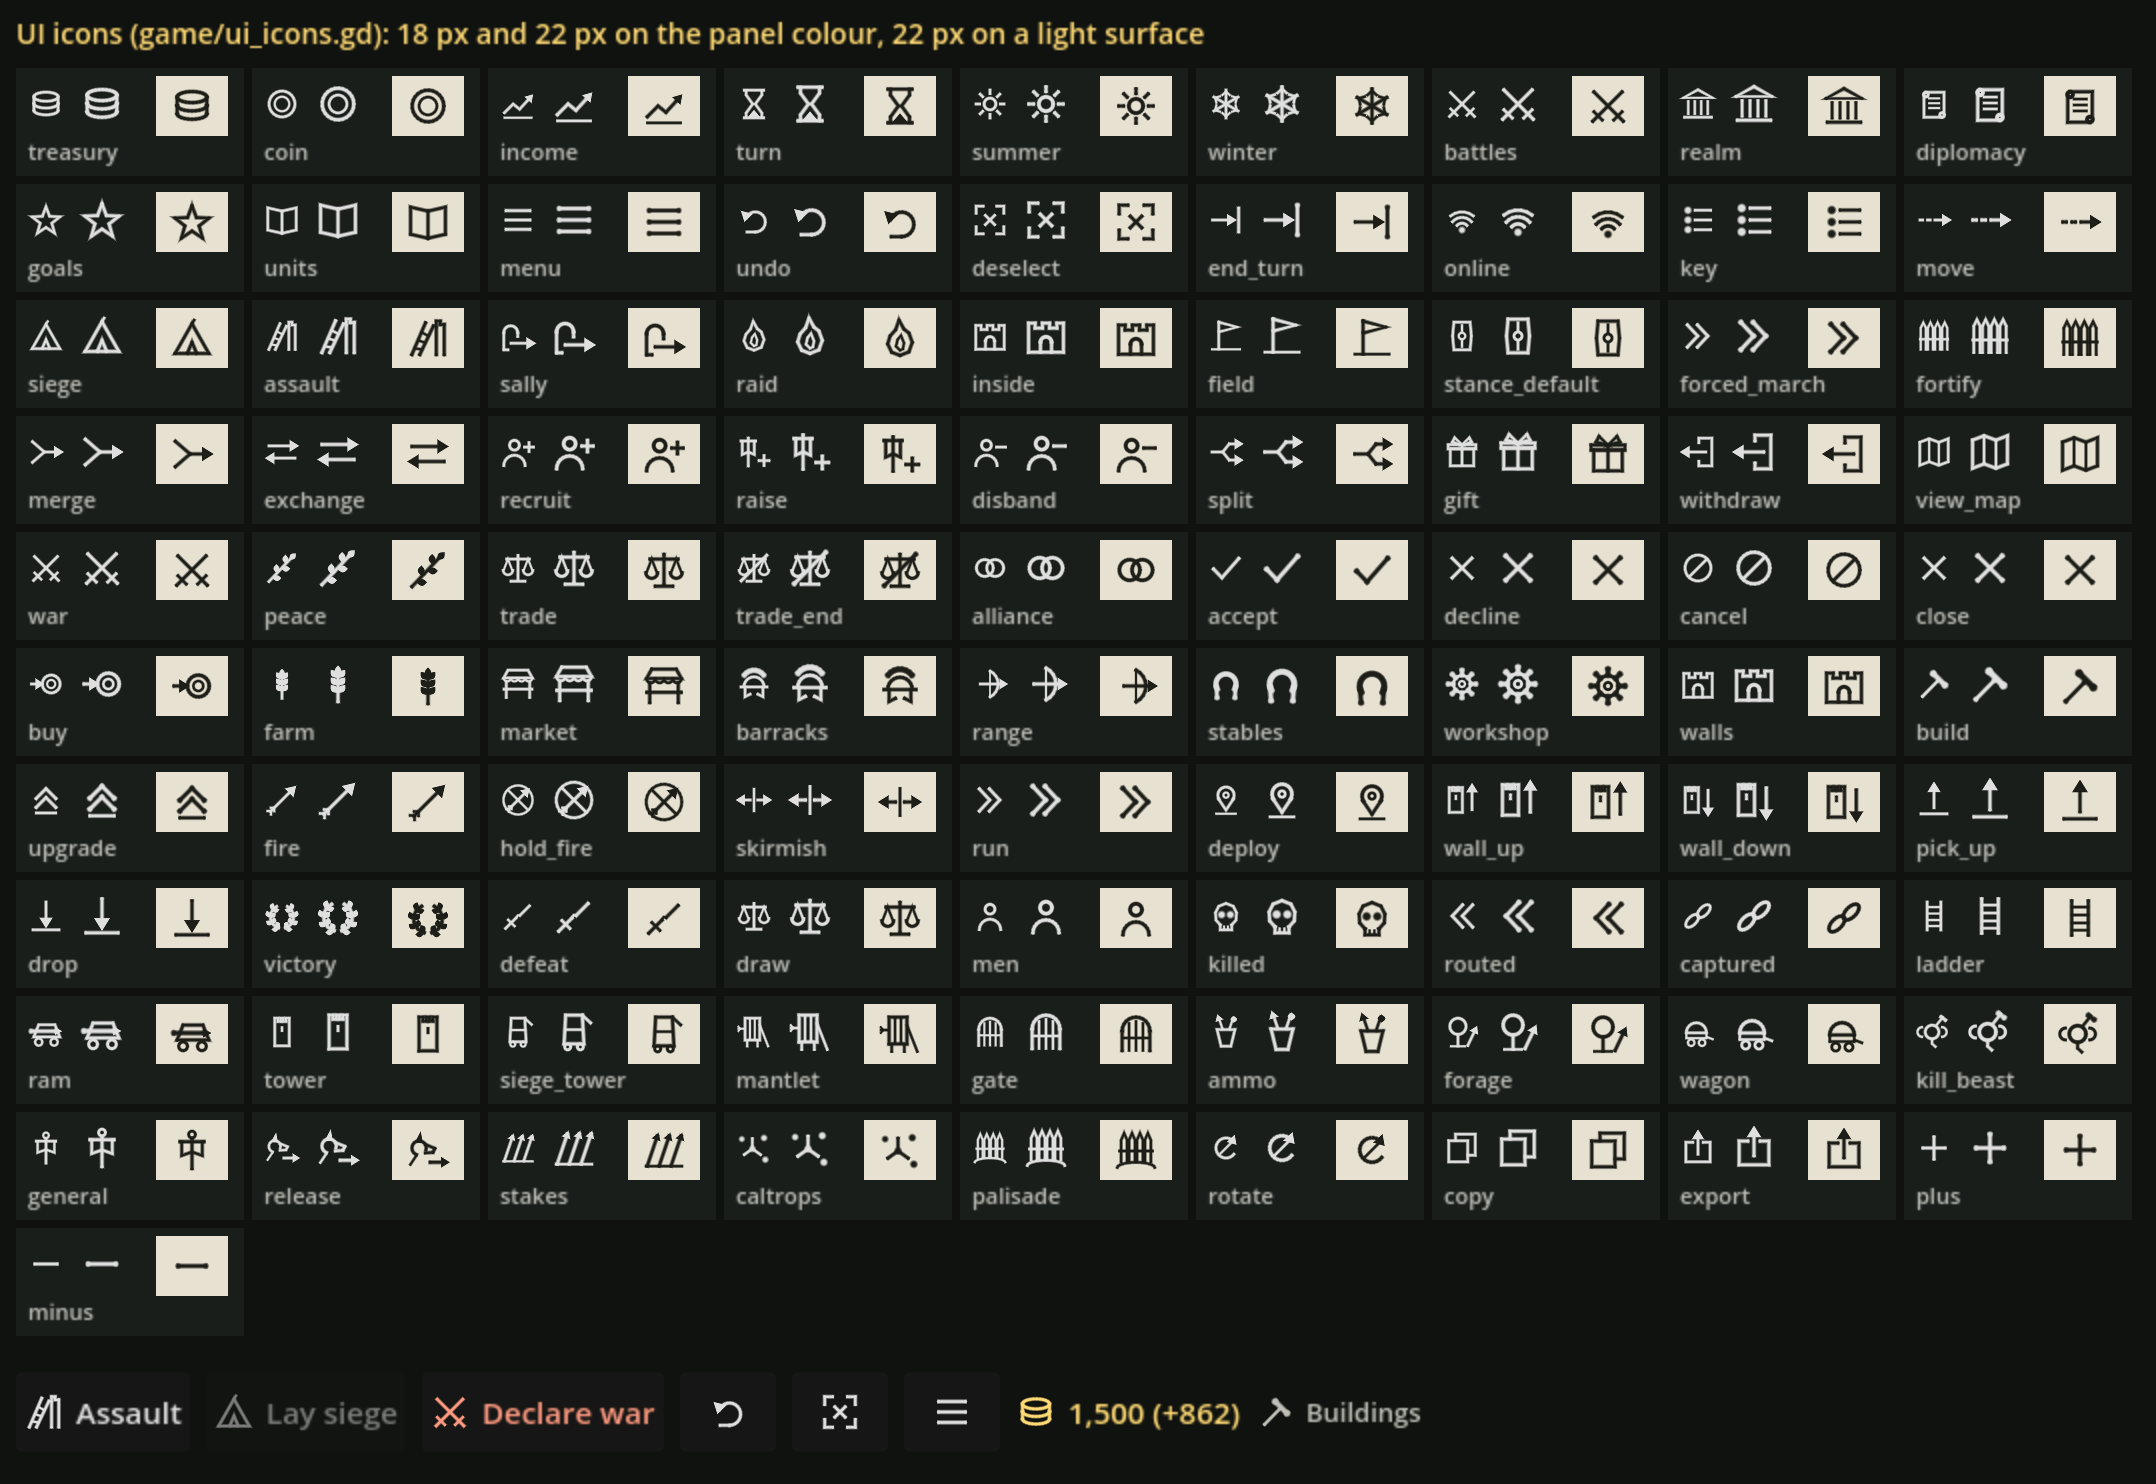
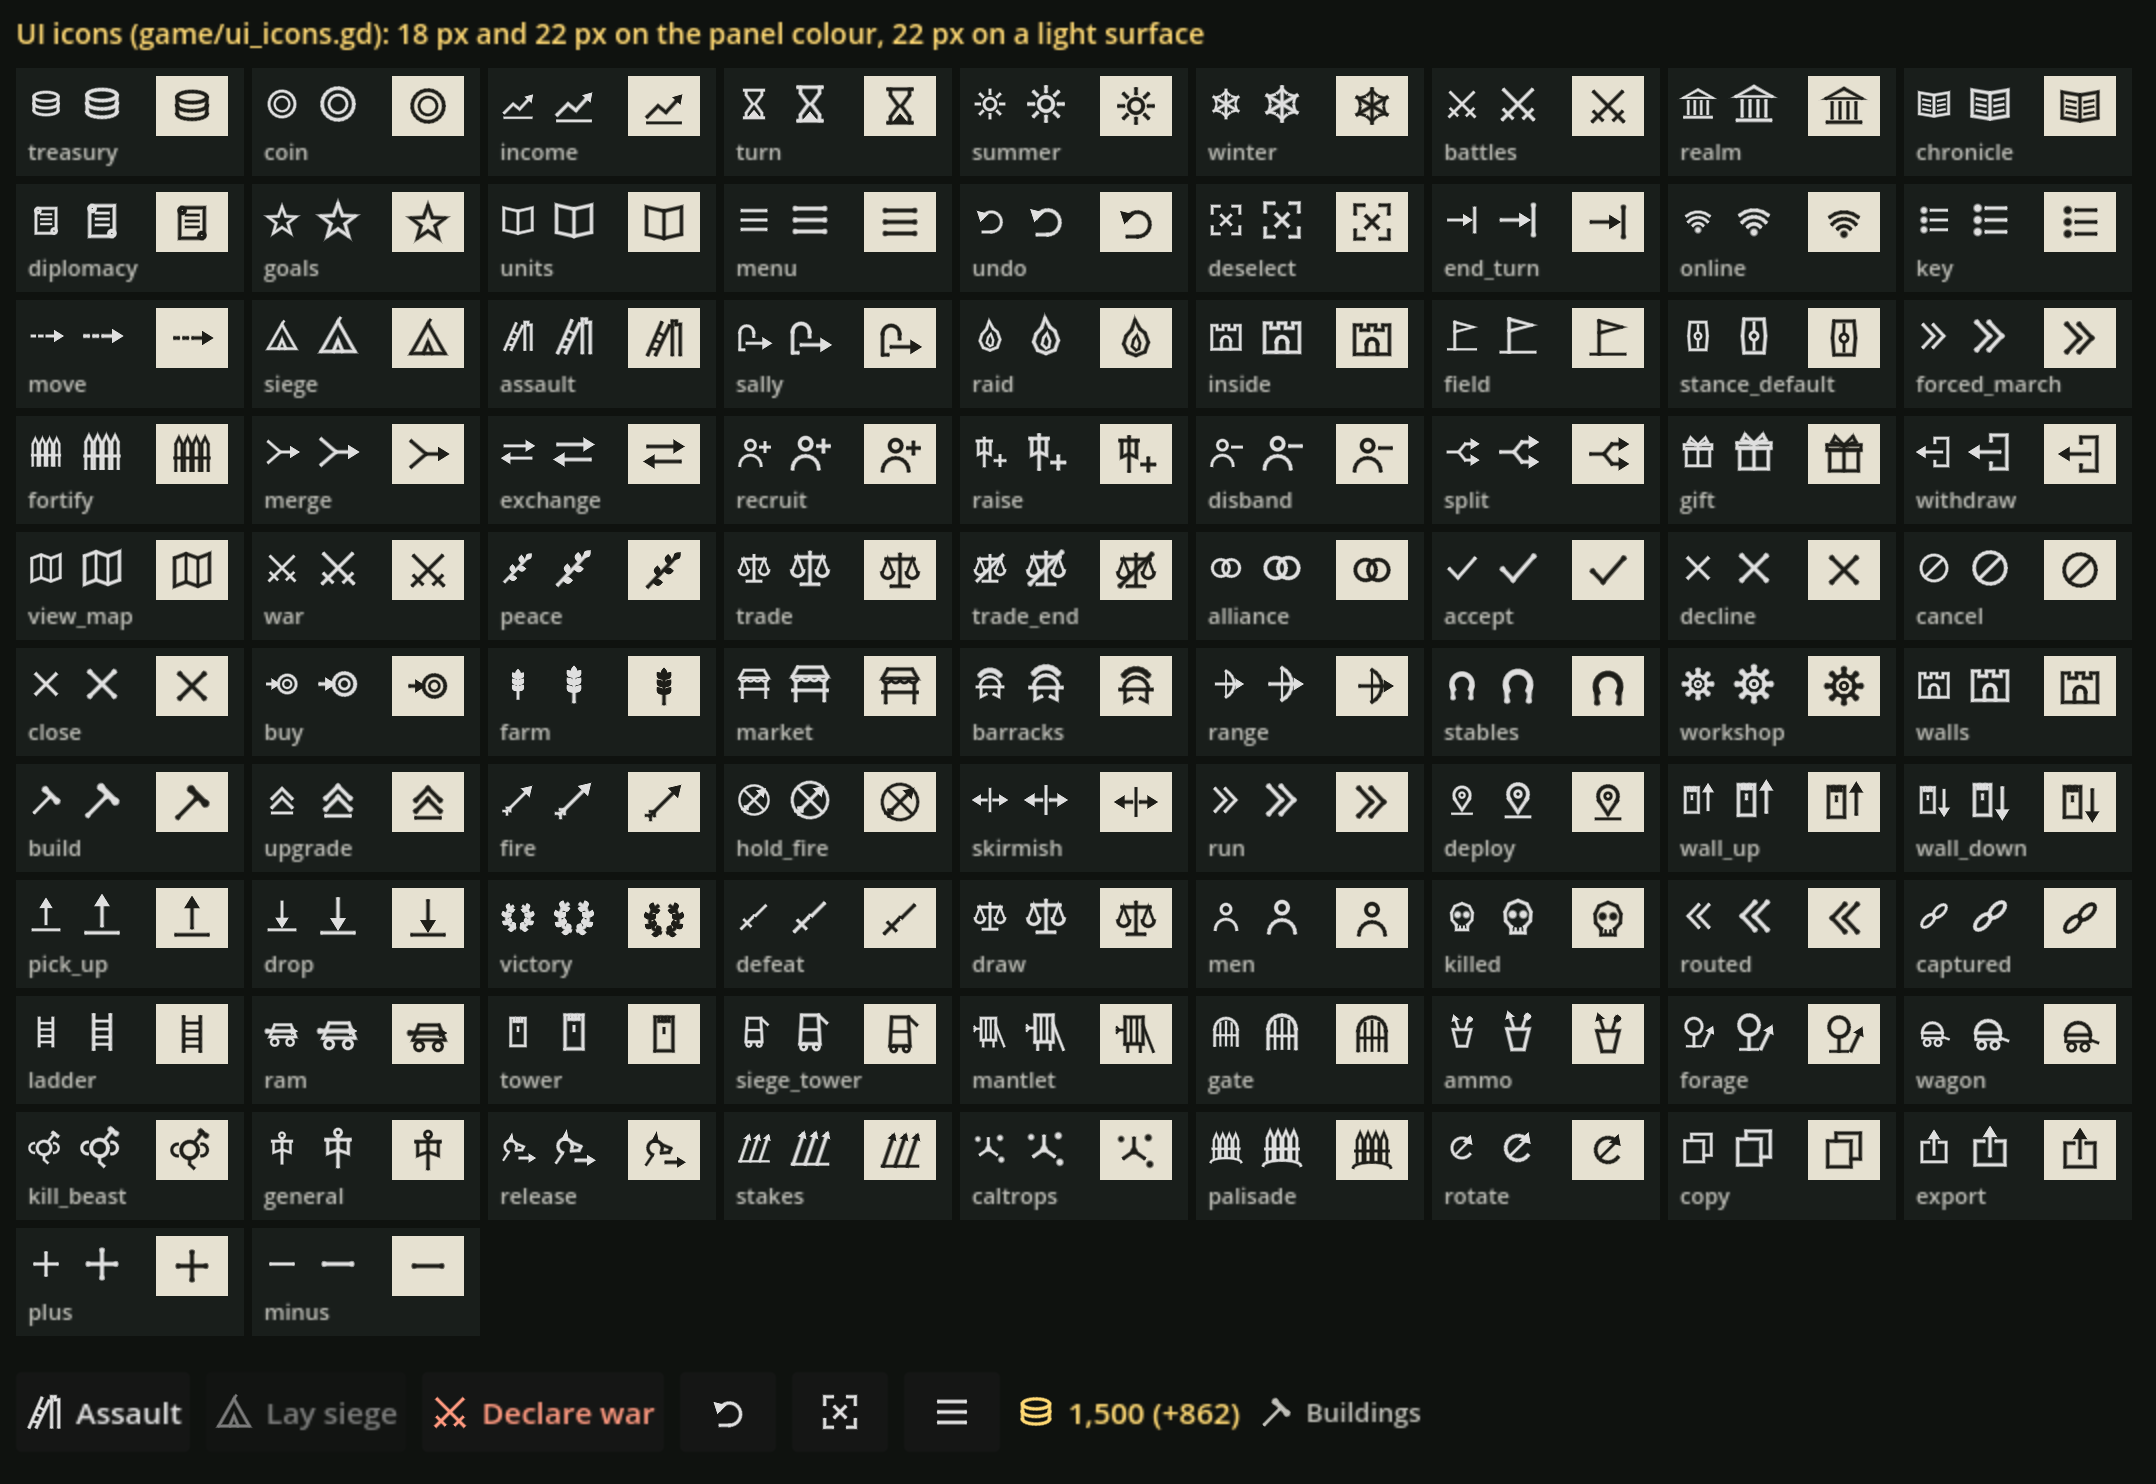
Campaign: turn chronicle and the diplomacy stance
Chronicle: CRules.event also appends world-level rows (battle,
captured, destroyed, eliminated, war, peace, trade, trade_end, siege,
siege_lifted, starving, victory, defeat) to an optional state key
"chronicle", kept 60 turns, absent in old saves (VERSION 6); hashed as
events are, so the campaign_sim hashes move to f519f0cd 92128fe3
1ae512e4 9f5d6dfb fb5276ad 6d1bee77 (rng unchanged). A Chronicle
dialog (Realm -> Chronicle, icon "chronicle", --dialog=chronicle): one
section per turn, newest first, the world's rows then "Yours"; the
start-of-turn summary uses the same box and keeps its warnings.
Diplomacy stance: CAI.why() is the single rule (accepts = why == "");
the Diplomacy screen shows "Would accept" / "Would refuse: reason"
under each AI row before a proposal is sent (trade: at peace 2+ turns
and the asker at least 40 % of its strength; peace: at war 3+ turns
and weaker, or 18 turns, or down to 2 regions), nothing for humans.
campaign_test: _chronicle checks, the two pinned digests re-pinned
(63ea40c5 -> 6e1095cd, 1379013c -> 08e7391a). Icon gallery regenerated.

Verify: check_scripts clean; determinism, lockstep, custom_battle,
campaign, battle_screen PASS.

Claude-Session: https://claude.ai/code/session_0176xvpqGUFnMoetP3ki2iqX

diff --git a/docs/STATUS.md b/docs/STATUS.md
@@ -61,6 +61,7 @@ anti-cheat and original art only if it proves fun.
 | Siege pass, paused (2026-10-09; owner's decision: the siege tuning waits until the settlement movement and ladder bugs are fixed, a separate build, since tuning levers around men who jam at walls is premature). **Kept (harness only, no rule or number changed):** `tests/matchups.gd --only=fair-sieges` row 2 is the **full kit** of a three-turn campaign siege (3 ladder sets, a ram, 4 mantlets as `CBattle.siege_equipment` gives, a tower at walls 2-3, a unit of scorpions; `Scenarios.fair_siege` key `extra` adds attacker units with the defenders' field army reduced by the same strength); `--fair-variants=fort0,fort1` (a side in its fortified camp); 8 missile flank / rear yardsticks in `--only=yard` (archers / slingers 80 at 100 m: pikes 120 flank 99.7 / 94.0 %, rear 99.1 / 89.7 %; heavy 120 flank 77.6 / 69.0 %, rear 72.4 / 49.2 %; front 5.3 / 0.2 %: a stone never outdoes an arrow). **Shelved** (a patch in the session scratchpad, `rebal/siege/SHELVED.patch` + README; to resume after the movement fix): `TOWN_PLACE_LEAD` 10 m, `WALL_COVER` 25 / 25 / 40, `TOWERS_MAX` 3 / 4, `GATE_HP_PCT` 100 / 115, `GATE_FIRE_CHIP` 15 / 8 / 6, Skilled `SK_STORM_STAGGER` 0, the settlement AI taking up crewless engines, the formula's walls term `WALLS_PCT` by walls and kit with `FORTIFY_DEF_PCT` 123, Skilled `SHELTER_PCT` 70. **Findings:** bisect (fair sieges walls 1, ladders + ram, over the day's commits): ring / polis 40 / 50 % until the melee commit 15ef028 ("ranks hold together"), 0 / 30 % from it on; cause: with the field's 1.5 m `PLACE_LEAD` a column coming out of a gateway fights only with the men at its places (they stand in the walls) against the stack's whole frontage (no cap in towns: 70-100 %). Skilled attackers lose more than Average because their staggered storm feeds units one by one into the stack (ablation: stagger off ring / polis walls 1 0 / 20 -> 70 / 40 %). At walls 2-3 the attackers' archers kill almost no wall men (a probe: 2,700 arrows, about 400 landing near a target, mostly at tower crews). Equal-force sieges, attacker wins, both Average, 10 seeds (ladders + ram / artillery only / full kit), HEAD -> shelved state:<br>ring walls 1 0 / 0 / 0 -> 40 / 10 / 40 %; walls 2 10 / 0 / 0 -> 10 / 10 / 30 %; walls 3 0 / 0 / 0 -> 10 / 0 / 10 %;<br>polis walls 1 30 / 20 / 40 -> 60 / 20 / 50 %; walls 2 0 / 0 / 0 -> 0 / 40 / 10 %; walls 3 0 / 0 / 10 -> 10 / 10 / 10 %; the attackers withdraw in most losses, draws 0-20 %, 8-11 min mean.<br>Full kit walls 1 / 2: Average vs Easy defender ring 0 / 0 -> 40 / 0 %, polis 10 / 10 -> 10 (50 % draws) / 10 %; Skilled vs Average defender ring 0 / 0 -> 70 / 0 %, polis 20 / 0 -> 40 / 0 %. Fortified camp (HEAD): an Average army in its camp beat an equal one 13 of 20. Calibration (`campaign_battles --only=calib --n=60`), HEAD -> shelved state: formula favourite won 49 -> 54 of 60 (82 -> 90 %); attacker wins sim 30 / formula 34 -> sim 30 / formula 29 %. campaign_sim 6x60 of the shelved state 704eeec1 96b2efba 3fa67102 3e463360 4263d23c e202ac8c (sieges started / assaulted / won / lifted 84 / 69 / 48 / 32 -> 77 / 61 / 41 / 31). Ladder reports (one ladder at a time, the last men never climbing, the unit refusing orders): not diagnosed here (moved to the movement build; a scratch probe found throughput as designed with no defenders and piecemeal deaths with 60 defenders above) | Harness kept 2026-10-09, not committed; check_scripts clean, determinism full PASS (sim untouched, goldens = HEAD) |
 | Units flow into the space (2026-10-09; settlement movement, built after the siege pass paused; maps with buildings or walls only, field battles hash as before): **measurement** a hashed no-progress counter `u_stuck` (+ `u_srx`, `u_sry`, `u_sprog`; diagnostics `stat_stuck_max` / `stat_stuck_u` / `stat_stuck_t`), probe `determinism_test --only=flow` (ladders at walls 1-2 with and without 60 defenders above, four units through a gate, a street fight, a unit across a house's corner), stuck columns in `matchups --only=fair-sieges`; **ladders** queue at every ladder of the set (nearest / shortest queue, two abreast), each ladder takes its own man every `LADDER_TICKS` (hashed `q_lt` per lane replaces `q_acc`; same set throughput) (a "crowded top holds the ladder" rule tried and dropped: defended escalades fell to 55 men up / 4 killed), a move is taken while climbing (`_ladder_move`: along the stretch, outward = all down the ladders, inland = the rest climb then it goes on), a free ladder nobody comes to for `LADDER_STALL` 30 s gives the climb up (all down); **slots that flow** (`_flow_slots`: cut places flood the free 2 m cells nearest the anchor, a queuing or squeezed fighting unit packs, `u_flow` / `u_flt`, budget `FLOW_EVERY` 10 ticks, `FLOW_CELLS` 160); **stuck release** at 50 / 100 / 150 ticks of a 150-tick cycle (re-flow, re-plan or end a hopeless move, regroup); and the movement bugs the counter found (the squeeze's middle shift at a move's end, AI retargets replanning paths, stair-foot places on the walkway, stair trails through walls, anchors cutting wall corners, waypoints reached past a corner, short moves snapped behind houses, path tables starved for high-index units, moves to ground a shut gate cut off; DESIGN.md lists them). New constants: `STUCK_DIST` 2 m, `STUCK_CYCLE` 150, `STUCK_FLOW` 50, `STUCK_ROUTE` 100, `STUCK_NEAR` 8 m, `FLOW_EVERY` 10, `FLOW_AHEAD` 4 m, `FLOW_PACK` 125 %, `FLOW_CELLS` 160, `LADDER_AT` 1.5 m, `LADDER_QSP` 1 m, `LADDER_QW` 0.6 m, `LADDER_QCOST` 1.2 m, `LADDER_STALL` 300, `LANES_MAX` 8 (no balance number changed; the shelved patch untouched). Probe before -> after: ladders, no defenders, walls 1 / 2: all 90 up in 360 / 540 -> 369 / 568 ticks, 5 ladders in use at once (mean 4.7 -> 4.6), a move at the end refused -> taken, walls 2 left split 40 up / 50 below -> whole; with 60 defenders both rout down whole after ~50 lost (men up 77 / 57 -> 75 / 56, defenders lost 20 / 12 -> 17 / 2); house corner never formed (53 men off their places) -> formed at 1080; gate jam and street fight unchanged. Fair sieges (full kit, both Average, 10 seeds; measured before the crowded-top rule was dropped), ring / polis walls 1 / 2: units stuck past 20 s 8 / 20 / 29 / 31 -> 2 / 3 / 6 / 12, longest 3629 / 4255 / 2232 / 2906 -> 257 / 368 / 2466 / 854 ticks (**criterion "none above 200" not met**: narrow alleys the 3 m path line cannot use, stair approaches with stragglers far behind, defenders moving through their own stack); attacker wins (side effect, not tuned) ring 0 / 0 -> 0 / 10 %, polis 40 / 0 -> 40 / 0 %. Tick cost (desktop, HEAD -> this, same machine back to back): first 1,500 ticks (same opening) bench_4000_city 2.87 -> 3.10 ms (+8 %), castrum 3.05 -> 3.18 (+4 %), polis 3.35 -> 3.37 (+1 %), the unit update +0.1 ms; full benches (the battles now differ) city 3.59 -> 4.23 ms (+18 %: contact 1,220 ticks earlier, march +20 %, engaged +8 %), polis 4.37 -> 4.35, castrum 3.44 -> 3.46; flowed layouts about 0.25 a tick. See DESIGN.md "Units flow into the space", AI.md 25 | Built 2026-10-09, not committed; check_scripts clean; determinism full PASS (golden digests unchanged; `--only=flow` new, also in the full run; `--only=layout` moved to fair-siege seed 2: seed 1 no longer reaches the plaza reserve in 4,500 ticks), lockstep full PASS, custom_battle_test, campaign_test, battle_screen_test PASS; campaign_sim 6x60 unchanged 324307b6 bb0532b7 b9e5ae32 0bf0a9f8 b77014f8 481344a4 (the formula is untouched); rules hash changes; not yet played on phones **Open for the siege pass:** at walls 2 a defended escalade kills far fewer defenders than before this build (probe b: 12 -> 2 with 56-57 men up under every ladder-top setting; walls 1 back to 75 / 17 with the crowded-top rule dropped): find which movement fix changed the walkway fight before any lever |
 | Explosive stones as a real blast (2026-10-09; owner: "is the blast any different from the rocks?"): an ammunition kind with `aoe` 1 (new AMMO field, `t_k_aoe`; only Explosive stones) bursts instead of ploughing (`_land_blast`): its `blast` 1536 -> 3196 (4 m round with the stone's 0.9 m); every man inside struck, energy full at the centre to a third at the edge (`(3R - 2d) / 3R`), armour as for stones, engines inside double; the survivors, nearest first, at most `BLAST_KNOCK_MAX` 30 a landing, thrown outward `BLAST_THROW` 1 m + RNG `BLAST_THROW_RND` 0-1 m (only over the ground they stand on: no wall, gate, building, walkway edge or ditch; else only downed) and down `BLAST_DOWN` 20 + RNG `BLAST_DOWN_RND` 0-10 ticks (riders and beasts half both; elephants not thrown, `BLAST_DOWN_BIG` 10). The down state is the existing `S_DOWN` with its hashed per-man `cooldown` timer (no new array: no moving, no attacking, out of `u_inreach`, no shield, `DOWN_BONUS` 35 in melee kept), slots kept so the hole shows until they get up; drawn lying on both paths already (state 3). Fear 40 unchanged (every man in the blast is struck). Probe `determinism_test --only=blast` (18-man battery, 160 pikes at 150 m, 120 s): 7 bursts, 23 struck / 14 knocked a burst, mean down 25 ticks, 27 men > 1.5 m off their places right after (most 44), 87 killed (the run also fires ordinary stones) vs 35 with ordinary stones (none knocked). Yardstick (`matchups --only=yard`, 20 seeds): the explosive load (8.7 shots) kills 58.0 of 120 pikes (136 struck, 78 knocked) vs 8.1 by as many ordinary stones. `--only=ammo` (explosive into heavies at 130 m): 23 -> 91 struck, 21 -> 48 killed, assertions unchanged. No AI change (it already prefers explosives at dense targets). See DESIGN.md "Explosive stones: blast and knockback" | Built 2026-10-09, not committed; check_scripts clean; determinism full PASS (golden digests unchanged; `--only=blast` new, also in the full run), lockstep full PASS, custom_battle_test, campaign_test, battle_screen_test PASS; campaign_sim 6x60 unchanged 324307b6 bb0532b7 b9e5ae32 0bf0a9f8 b77014f8 481344a4; rules hash changes; not yet played on phones |
+| Turn chronicle and diplomacy stance (2026-10-09): optional state key `chronicle` (world-level rows, last 60 turns, written by `CRules.event`, hashed: the campaign_sim 6x60 hashes and the two pinned campaign_test digests changed for that reason only, rng unchanged); Realm -> Chronicle dialog and the start-of-turn summary share `_chronicle_box` (world first, then Yours); UI icon "chronicle"; `CAI.why` (accepts = why is "") and a stance line per proposal on the Diplomacy screen | Built 2026-10-09, not committed; check_scripts clean; campaign_test (new `_chronicle`); not yet played on phones |
 
 ### What exists
 
@@ -1015,7 +1016,7 @@ Where 2026-10-09 ended (build 20261009T124650Z live; everything up to
   battle, a matchup mark (up / level / down) on the enemy unit under the
   finger for the selected unit, from the same tags. Vocabulary kept to
   ~10 traits and 6 classes.
-- **Turn chronicle and diplomacy stance (user, 2026-10-09).** UI, Sonnet,
+- **Turn chronicle and diplomacy stance (user, 2026-10-09), BUILT.** UI, Sonnet,
   with the compact-cards item. (1) **Round roll-up**: the "since you
   last played" summary carries only two turns of events and mixes the
   world in with your own; make a turn chronicle shown at the start of
@@ -1059,6 +1060,7 @@ Where 2026-10-09 ended (build 20261009T124650Z live; everything up to
   and the preview Sonnet. After the settlement-movement item (same code).
 - **Open from playtests:** the co-op Ask-to-join flow unconfirmed; the
   general's upkeep decision (none) is in; the Leave button fix is in.
+  Tower engines shown (done 2026-10-09): pre-battle card "Wall engines (up to)" line, defender HUD one card per engine kind with shots and crew, tap cycles.
   Recruit lists show every unlocked tier per line (done 2026-10-09): region panel, army card and the Raise-new-army picker (one row per tier).
 - **Region panel overflow fixed (2026-10-09, user's PC screenshot):** the
   side panel grew past the window edge on a besieged city on every
